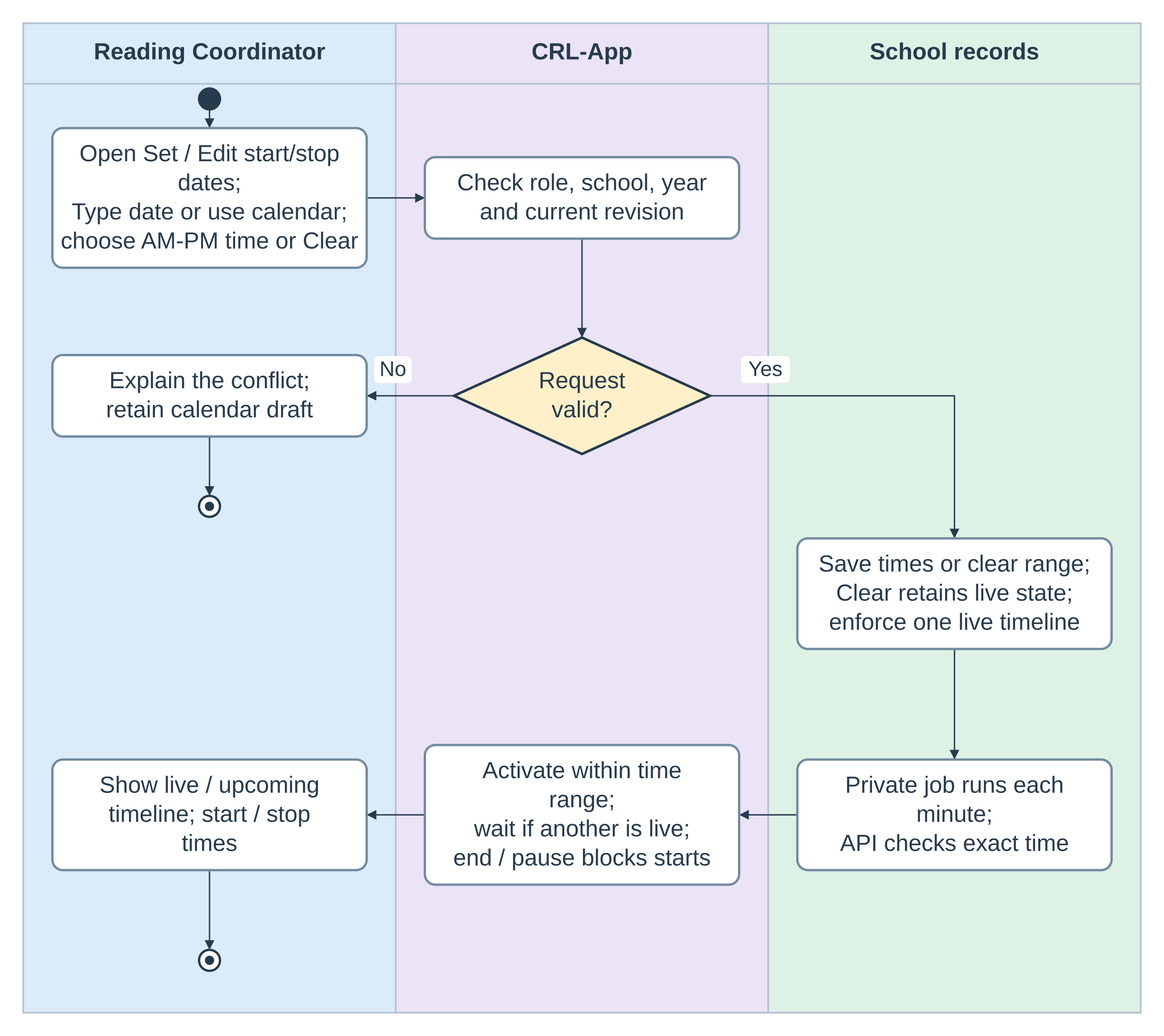
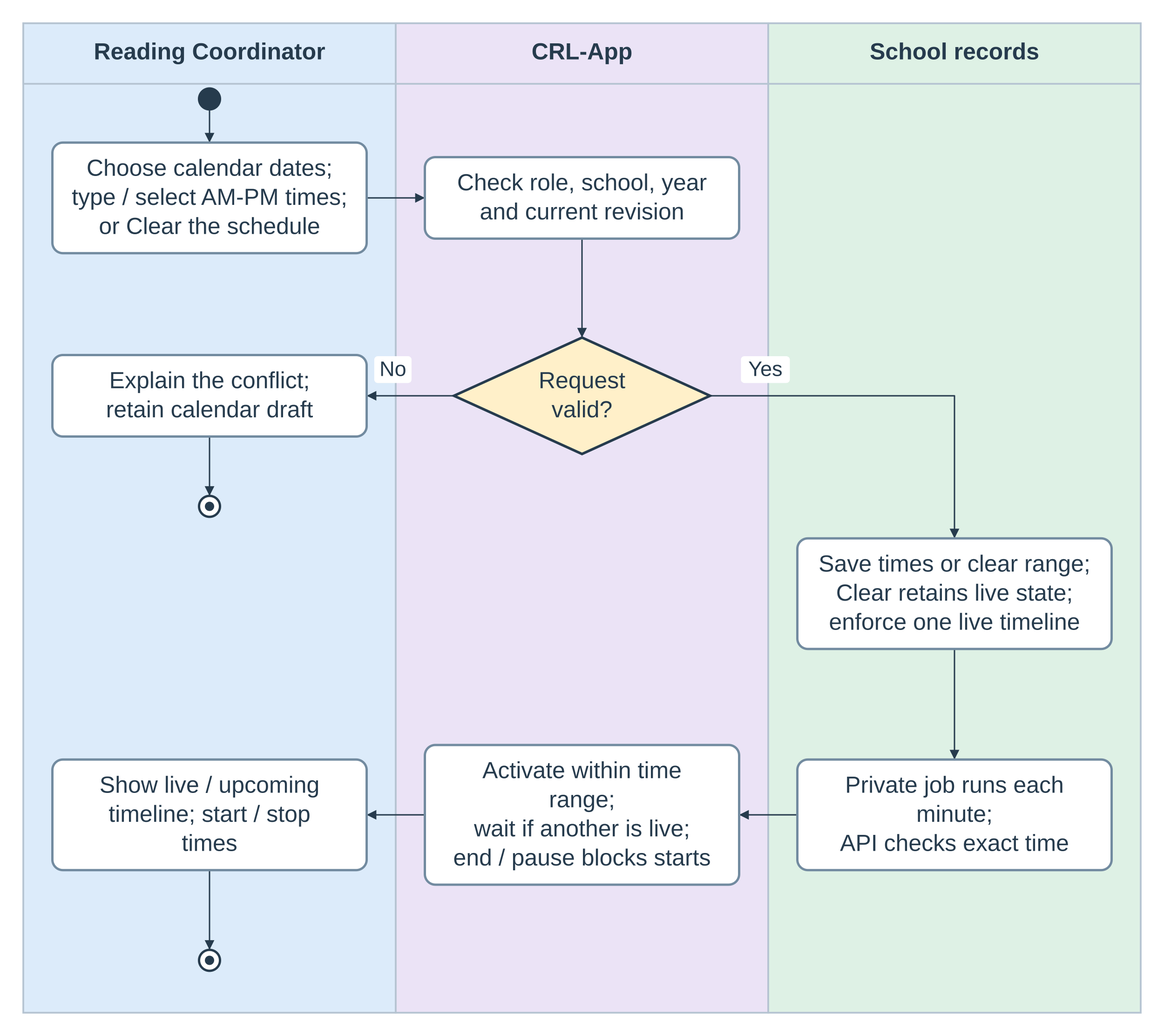
CRL-2026-11-07.5 restore clickable dates and bounded editable time controls

Changed region(s): [[0.0312, 0.124, 0.312, 0.2791]]

diff --git a/components/Select.jsx b/components/Select.jsx
@@ -3,8 +3,8 @@ import {Children,forwardRef,isValidElement,useEffect,useId,useLayoutEffect,useRe
 import {createPortal} from 'react-dom';
 import styles from './Select.module.css';
 function flatten(children,group=''){return Children.toArray(children).flatMap(child=>!isValidElement(child)?[]:child.type==='option'?[{...child.props,value:String(child.props.value??child.props.children),group}]:flatten(child.props.children,child.type==='optgroup'?child.props.label:group));}
-const Select=forwardRef(function Select({children,value,defaultValue='',menuMinWidth=0,onChange,className='',style,id,disabled,required,name,onBlur,onFocus,onKeyDown,...props},forwarded){
- const generated=useId(),key=id||generated,button=useRef(null),native=useRef(null),popup=useRef(null),timer=useRef(null),search=useRef({text:'',at:0});
+const Select=forwardRef(function Select({children,value,defaultValue='',menuMinWidth=0,numericMax,centered=false,onChange,className='',style,id,disabled,required,name,onBlur,onFocus,onKeyDown,...props},forwarded){
+ const generated=useId(),key=id||generated,button=useRef(null),native=useRef(null),popup=useRef(null),timer=useRef(null),search=useRef({text:'',at:0}),control=useRef(null),digits=useRef('');
  const [internal,setInternal]=useState(String(defaultValue)),[open,setOpen]=useState(false),[present,setPresent]=useState(false),[active,setActive]=useState(-1),[position,setPosition]=useState(null),[label,setLabel]=useState('');
  const options=flatten(children),selected=String(value??internal),index=options.findIndex(o=>o.value===selected),current=options[index];
  const close=()=>{setOpen(false);clearTimeout(timer.current);timer.current=setTimeout(()=>setPresent(false),160);};
@@ -12,13 +12,38 @@ const Select=forwardRef(function Select({children,value,defaultValue='',menuMinW
  useEffect(()=>{if(disabled)close();},[disabled]);
  useEffect(()=>{const node=button.current;const parent=node?.closest('label');if(parent){const clone=parent.cloneNode(true);clone.querySelectorAll('select,button,[role=listbox]').forEach(n=>n.remove());setLabel(clone.textContent.trim());}},[]);
  const place=()=>{const r=button.current?.getBoundingClientRect();if(!r)return;const below=innerHeight-r.bottom-12,above=r.top-12,up=below<180&&above>below,height=Math.min(300,Math.max(100,up?above:below)),width=Math.min(Math.max(r.width,menuMinWidth),innerWidth-16);setPosition({left:Math.max(8,Math.min(r.left,innerWidth-width-8)),width,maxHeight:height,...(up?{bottom:innerHeight-r.top+6}:{top:r.bottom+6})});};
- useLayoutEffect(()=>{if(!present)return;place();const outside=e=>{if(!button.current?.contains(e.target)&&!popup.current?.contains(e.target))close();};const moved=e=>{if(!popup.current?.contains(e.target))place();};document.addEventListener('pointerdown',outside,true);window.addEventListener('resize',place);window.addEventListener('scroll',moved,true);return()=>{document.removeEventListener('pointerdown',outside,true);window.removeEventListener('resize',place);window.removeEventListener('scroll',moved,true);};},[present]);
+ useLayoutEffect(()=>{if(!present)return;place();const outside=e=>{if(!control.current?.contains(e.target)&&!popup.current?.contains(e.target))close();};const moved=e=>{if(!popup.current?.contains(e.target))place();};document.addEventListener('pointerdown',outside,true);window.addEventListener('resize',place);window.addEventListener('scroll',moved,true);return()=>{document.removeEventListener('pointerdown',outside,true);window.removeEventListener('resize',place);window.removeEventListener('scroll',moved,true);};},[present]);
  useEffect(()=>{if(open)popup.current?.querySelector(`[data-index="${active}"]`)?.scrollIntoView({block:'nearest'});},[active,open]);
  const show=()=>{if(disabled)return;clearTimeout(timer.current);setActive(index<0?options.findIndex(o=>!o.disabled):index);setPresent(true);setOpen(true);};
- const choose=i=>{const option=options[i];if(!option||option.disabled)return;setInternal(option.value);if(native.current){const set=Object.getOwnPropertyDescriptor(HTMLSelectElement.prototype,'value').set;set.call(native.current,option.value);}onChange?.({target:{value:option.value,name,id},currentTarget:{value:option.value,name,id},type:'change'});close();button.current?.focus();};
+ const choose=i=>{digits.current='';const option=options[i];if(!option||option.disabled)return;setInternal(option.value);if(native.current){const set=Object.getOwnPropertyDescriptor(HTMLSelectElement.prototype,'value').set;set.call(native.current,option.value);}onChange?.({target:{value:option.value,name,id},currentTarget:{value:option.value,name,id},type:'change'});close();button.current?.focus();};
+ // Numeric mode is opt-in for scheduling time controls. Keep normal selects unchanged.
+ const emitNumber=n=>{const i=options.findIndex(o=>Number(o.value)===n);if(i<0)return;setInternal(options[i].value);onChange?.({target:{value:options[i].value,name,id},type:'change'});};
+ const numericKeys=e=>{
+  if(e.ctrlKey||e.metaKey||e.altKey)return;
+  if(/^\d$/.test(e.key)){
+   e.preventDefault();close();
+   const replacing=e.currentTarget.selectionStart!==e.currentTarget.selectionEnd;
+   if(replacing)digits.current='';
+   if(digits.current.length>=2)return;
+   const next=digits.current+e.key,n=Number(next);
+   if(n>numericMax)return;
+   digits.current=next.length===2||n>Math.floor(numericMax/10)?next.padStart(2,'0'):next;
+   e.currentTarget.setSelectionRange(2,2);emitNumber(n);return;
+  }
+  if(e.key==='Backspace'||e.key==='Delete'){e.preventDefault();digits.current='';emitNumber(0);close();return;}
+  if(e.key.length===1&&e.key!==' '){e.preventDefault();return;}
+  keys(e);
+ };
+ const numericChange=e=>{
+  // Covers paste and mobile keyboards that dispatch input without keydown.
+  const raw=e.target.value;if(!/^\d{0,3}$/.test(raw)||raw.length===3&&!raw.startsWith('0'))return;
+  const n=Number(raw);if(n>numericMax)return;
+  digits.current=raw.length>=2||n>Math.floor(numericMax/10)?String(n).padStart(2,'0'):raw;
+  emitNumber(n);
+ };
  const move=delta=>{let next=active;for(let i=0;i<options.length;i++){next=(next+delta+options.length)%options.length;if(!options[next].disabled){setActive(next);break;}}};
  const keys=e=>{onKeyDown?.(e);if(e.defaultPrevented)return;if(['ArrowDown','ArrowUp','Home','End','Enter',' ','Escape'].includes(e.key)){e.preventDefault();if(e.key==='Escape'){e.stopPropagation();close();return;}if(!open){show();return;}if(e.key==='ArrowDown'||e.key==='ArrowUp')move(e.key==='ArrowDown'?1:-1);else if(e.key==='Home')setActive(options.findIndex(o=>!o.disabled));else if(e.key==='End')setActive(options.findLastIndex(o=>!o.disabled));else choose(active);}else if(e.key==='Tab')close();else if(e.key.length===1&&!e.ctrlKey&&!e.metaKey){const now=Date.now();search.current={text:(now-search.current.at<600?search.current.text:'')+e.key.toLowerCase(),at:now};if(!open)show();const found=options.findIndex(o=>!o.disabled&&String(o.children).toLowerCase().startsWith(search.current.text));if(found>=0)setActive(found);}};
  if(props.multiple||props.size>1)return <select {...props} ref={forwarded} className={className} style={style} id={id} name={name} value={value} defaultValue={value===undefined?defaultValue:undefined} disabled={disabled} required={required} onChange={onChange}>{children}</select>;
- return <span data-crl-select="" className={`${styles.root} ${className}`} style={style}><select {...props} id={key+'-native'} ref={node=>{native.current=node;if(typeof forwarded==='function')forwarded(node);else if(forwarded)forwarded.current=node;}} className={styles.native} name={name} value={selected} onChange={e=>{setInternal(e.target.value);onChange?.(e);}} disabled={disabled} required={required} tabIndex={-1} aria-hidden="true" onInvalid={()=>{button.current?.focus();show();}}>{children}</select><button {...Object.fromEntries(Object.entries(props).filter(([k])=>k.startsWith('aria-')||k.startsWith('data-')))} ref={button} id={key} type="button" role="combobox" aria-label={props['aria-label']||label||undefined} aria-expanded={open} aria-haspopup="listbox" aria-controls={present?key+'-options':undefined} aria-activedescendant={open&&active>=0?key+'-option-'+active:undefined} aria-required={required||undefined} disabled={disabled} className={styles.trigger} onClick={()=>open?close():show()} onKeyDown={keys} onFocus={onFocus} onBlur={e=>{if(!popup.current?.contains(e.relatedTarget))close();onBlur?.(e);}}><span>{current?.children||'Choose an option'}</span><svg viewBox="0 0 20 20" width="18" height="18" aria-hidden="true"><path d="m5 7.5 5 5 5-5"/></svg></button>{present&&position&&createPortal(<div ref={popup} id={key+'-options'} role="listbox" aria-label={props['aria-label']||label||'Options'} className={styles.options} data-open={open} style={position} onMouseDown={e=>e.preventDefault()}>{options.map((option,i)=><div key={i} role="option" id={key+'-option-'+i} aria-selected={selected===option.value} aria-disabled={Boolean(option.disabled)} data-index={i} data-active={active===i} className={styles.option} onPointerMove={()=>!option.disabled&&setActive(i)} onClick={()=>choose(i)}><span>{option.children}</span>{selected===option.value&&<span aria-hidden="true">✓</span>}</div>)}</div>,document.body)}</span>;
+ return <span ref={control} data-crl-select="" data-centered={centered||undefined} className={`${styles.root} ${className}`} style={style}><select {...props} id={key+'-native'} ref={node=>{native.current=node;if(typeof forwarded==='function')forwarded(node);else if(forwarded)forwarded.current=node;}} className={styles.native} name={name} value={selected} onChange={e=>{setInternal(e.target.value);onChange?.(e);}} disabled={disabled} required={required} tabIndex={-1} aria-hidden="true" onInvalid={()=>{button.current?.focus();show();}}>{children}</select>{numericMax!==undefined?<><input {...Object.fromEntries(Object.entries(props).filter(([k])=>k.startsWith('aria-')||k.startsWith('data-')))} ref={button} id={key} type="text" inputMode="numeric" autoComplete="off" role="combobox" aria-label={props['aria-label']||label||undefined} aria-expanded={open} aria-haspopup="listbox" aria-autocomplete="none" aria-controls={present?key+'-options':undefined} aria-activedescendant={open&&active>=0?key+'-option-'+active:undefined} disabled={disabled} className={styles.trigger} value={String(selected).padStart(2,'0')} onChange={numericChange} onClick={e=>{digits.current='';e.currentTarget.select();show();}} onKeyDown={numericKeys} onFocus={e=>{digits.current='';e.currentTarget.select();onFocus?.(e);}} onBlur={e=>{close();onBlur?.(e);}}/><button className={styles.numericArrow} type="button" disabled={disabled} tabIndex={-1} aria-label={'Show '+(props['aria-label']||label||'number')+' options'} onMouseDown={e=>e.preventDefault()} onClick={()=>{button.current?.focus();open?close():show();}}><svg viewBox="0 0 20 20" width="18" height="18" aria-hidden="true"><path d="m5 7.5 5 5 5-5"/></svg></button></>:<button {...Object.fromEntries(Object.entries(props).filter(([k])=>k.startsWith('aria-')||k.startsWith('data-')))} ref={button} id={key} type="button" role="combobox" aria-label={props['aria-label']||label||undefined} aria-expanded={open} aria-haspopup="listbox" aria-controls={present?key+'-options':undefined} aria-activedescendant={open&&active>=0?key+'-option-'+active:undefined} aria-required={required||undefined} disabled={disabled} className={styles.trigger} onClick={()=>open?close():show()} onKeyDown={keys} onFocus={onFocus} onBlur={e=>{if(!popup.current?.contains(e.relatedTarget))close();onBlur?.(e);}}><span>{current?.children||'Choose an option'}</span><svg viewBox="0 0 20 20" width="18" height="18" aria-hidden="true"><path d="m5 7.5 5 5 5-5"/></svg></button>}{present&&position&&createPortal(<div ref={popup} id={key+'-options'} role="listbox" aria-label={props['aria-label']||label||'Options'} className={styles.options} data-centered={centered||undefined} data-open={open} style={position} onMouseDown={e=>e.preventDefault()}>{options.map((option,i)=><div key={i} role="option" id={key+'-option-'+i} aria-selected={selected===option.value} aria-disabled={Boolean(option.disabled)} data-index={i} data-active={active===i} className={styles.option} onPointerMove={()=>!option.disabled&&setActive(i)} onClick={()=>choose(i)}><span>{option.children}</span>{selected===option.value&&<span aria-hidden="true">✓</span>}</div>)}</div>,document.body)}</span>;
 });
 export default Select;

diff --git a/components/TimelineCalendar.jsx b/components/TimelineCalendar.jsx
@@ -4,31 +4,15 @@ import Select from './Select';
 import {dateOnly,formatScheduleDate,manilaDay,rangesOverlap} from '../lib/assessmentSchedule.mjs';
 import styles from './Coordinator.module.css';
 const MONTHS=Array.from({length:12},(_,m)=>new Intl.DateTimeFormat('en',{month:'long',timeZone:'UTC'}).format(new Date(Date.UTC(2027,m,1))));
-const partsFor=(value,year)=>{const [y,m,d]=(dateOnly(value)||'').split('-');return {year:y||String(year),month:m?String(Number(m)):'',day:d?String(Number(d)):''};};
-function DateEntry({label,value,minYear,maxYear,active,disabled,onSelect,onChange,onValidityChange}){
- const [parts,setParts]=useState(()=>partsFor(value,minYear)),emitted=useRef(value);
- useEffect(()=>{if(value!==emitted.current)setParts(partsFor(value,minYear));emitted.current=value;},[value,minYear]);
- const maxDay=parts.month?new Date(Date.UTC(Number(parts.year),Number(parts.month),0)).getUTCDate():31;
- const complete=Boolean(parts.month&&parts.day),empty=!parts.month&&!parts.day,valid=empty||(complete&&/^\d{1,2}$/.test(parts.day)&&Number.isInteger(Number(parts.day))&&Number(parts.day)>=1&&Number(parts.day)<=maxDay);
- useEffect(()=>onValidityChange(valid),[valid,onValidityChange]);
- const change=(key,value)=>{const next={...parts,[key]:value};if(Number(next.year)<minYear||Number(next.year)>maxYear)next.year=String(minYear);
-  if(key!=='day'&&next.month&&next.day){const days=new Date(Date.UTC(Number(next.year),Number(next.month),0)).getUTCDate();next.day=String(Math.min(Number(next.day),days));}
-  setParts(next);const candidate=next.month&&next.day?`${next.year}-${next.month.padStart(2,'0')}-${next.day.padStart(2,'0')}`:'';const result=dateOnly(candidate)===candidate?candidate:'';emitted.current=result;onChange(result);
- };
- const legacy=Number(parts.year)<minYear||Number(parts.year)>maxYear;
- return <div className={styles.dateEntry} data-active={active} onFocusCapture={onSelect}><button className={styles.dateEntryLabel} type="button" aria-pressed={active} disabled={disabled} onClick={onSelect}>{label}</button><div className={styles.dateParts}><Select menuMinWidth={145} aria-label={`${label} month`} disabled={disabled} value={parts.month} onChange={e=>change('month',e.target.value)}><option value="">Month</option>{MONTHS.map((m,i)=><option key={m} value={i+1}>{m.slice(0,3)}</option>)}</Select><input type="number" inputMode="numeric" aria-label={`${label} day`} placeholder="Day" min={1} max={maxDay} disabled={disabled} value={parts.day} onChange={e=>change('day',e.target.value)} aria-invalid={!valid&&Boolean(parts.day)}/><Select aria-label={`${label} year`} disabled={disabled} value={parts.year} onChange={e=>change('year',e.target.value)}>{legacy&&<option disabled value={parts.year}>{parts.year} (saved)</option>}{[minYear,maxYear].map(y=><option key={y} value={y}>{y}</option>)}</Select></div>{!valid&&parts.day&&<small className={styles.dateEntryError}>Enter a valid month and day.</small>}</div>;
-}
-export default function TimelineCalendar({period,startYear,start,end,onChange,onValidityChange,reserved=[],disabled=false,now=Date.now()}){
+export default function TimelineCalendar({period,startYear,start,end,onChange,reserved=[],disabled=false,now=Date.now()}){
  const today=manilaDay(now),minYear=Number(startYear),maxYear=minYear+1,minDay=`${minYear}-01-01`,maxDay=`${maxYear}-12-31`,clamp=day=>day<minDay?minDay:day>maxDay?maxDay:day;
- const [month,setMonth]=useState(()=>clamp(today).slice(0,7)),[field,setField]=useState('start'),grid=useRef(null),validity=useRef({start:true,end:true});
+ const [month,setMonth]=useState(()=>clamp(today).slice(0,7)),[field,setField]=useState('start'),grid=useRef(null);
  useEffect(()=>{setMonth(clamp(today).slice(0,7));},[startYear,today]);
- const report=(key,valid)=>{validity.current[key]=valid;onValidityChange?.(validity.current.start&&validity.current.end);};
- const edit=(key,value)=>{if(key==='start')onChange(value,end);else onChange(start,value);if(value)setMonth(clamp(value).slice(0,7));};
  const select=key=>{setField(key);const day=key==='start'?start:end;if(day)setMonth(clamp(day).slice(0,7));};
  const [y,m]=month.split('-').map(Number),first=new Date(Date.UTC(y,m-1,1)).getUTCDay(),days=new Date(Date.UTC(y,m,0)).getUTCDate();
  const blocked=day=>disabled||day<minDay||day>maxDay||(field==='end'&&start&&day<start);
  const choose=day=>{if(blocked(day))return;if(field==='start'){onChange(day,end&&end>=day?end:'');setField('end');}else onChange(start,day);};
  const shift=delta=>{const next=new Date(Date.UTC(y,m-1+delta,1)),nextYear=next.getUTCFullYear();if(nextYear>=minYear&&nextYear<=maxYear)setMonth(next.toISOString().slice(0,7));};
  const keys=(e,day)=>{const delta={ArrowLeft:-1,ArrowRight:1,ArrowUp:-7,ArrowDown:7}[e.key];if(!delta)return;e.preventDefault();const target=new Date(day+'T00:00:00Z');target.setUTCDate(target.getUTCDate()+delta);const next=target.toISOString().slice(0,10);if(blocked(next))return;setMonth(next.slice(0,7));requestAnimationFrame(()=>grid.current?.querySelector(`[data-day="${next}"]`)?.focus());};
- return <div className={styles.timelineCalendar} data-period={period} aria-label={`${period} schedule calendar`}><div className={styles.dateFields}><DateEntry label="Start date" value={start} minYear={minYear} maxYear={maxYear} active={field==='start'} disabled={disabled} onSelect={()=>select('start')} onChange={value=>edit('start',value)} onValidityChange={valid=>report('start',valid)}/><DateEntry label="Stop date" value={end} minYear={minYear} maxYear={maxYear} active={field==='end'} disabled={disabled} onSelect={()=>select('end')} onChange={value=>edit('end',value)} onValidityChange={valid=>report('end',valid)}/></div><div className={styles.calendarNav}><button type="button" aria-label={`Previous month for ${period}`} disabled={disabled||month===`${minYear}-01`} onClick={()=>shift(-1)}>‹</button><Select aria-label={`${period} calendar month`} disabled={disabled} value={String(m)} onChange={e=>setMonth(`${y}-${e.target.value.padStart(2,'0')}`)}>{MONTHS.map((name,i)=><option value={i+1} key={name}>{name}</option>)}</Select><Select aria-label={`${period} calendar year`} disabled={disabled} value={String(y)} onChange={e=>setMonth(`${e.target.value}-${String(m).padStart(2,'0')}`)}>{[minYear,maxYear].map(n=><option value={n} key={n}>{n}</option>)}</Select><button type="button" aria-label={`Next month for ${period}`} disabled={disabled||month===`${maxYear}-12`} onClick={()=>shift(1)}>›</button></div><div className={styles.calendarGrid} ref={grid} role="group" aria-label={`Choose ${field==='start'?'start':'stop'} date for ${period}`}><div className={styles.calendarWeek} aria-hidden="true">{'SMTWTFS'.split('').map((d,i)=><span key={i}>{d}</span>)}</div><div className={styles.calendarDays}>{Array.from({length:first},(_,i)=><span key={`blank${i}`}/>)}{Array.from({length:days},(_,i)=>{const day=`${month}-${String(i+1).padStart(2,'0')}`,occupied=reserved.find(r=>rangesOverlap(day,day,r.startsOn,r.endsOn));return <button key={day} type="button" data-day={day} data-in-range={Boolean(start&&end&&day>=start&&day<=end)} data-endpoint={day===start||day===end} aria-label={`${formatScheduleDate(day)}${occupied?`, reserved for ${occupied.period}`:''}`} aria-current={day===today?'date':undefined} disabled={blocked(day)} onKeyDown={e=>keys(e,day)} onClick={()=>choose(day)}>{i+1}</button>;})}</div></div></div>;
+ return <div className={styles.timelineCalendar} data-period={period} aria-label={`${period} schedule calendar`}><div className={styles.dateFields}>{['start','end'].map(key=><button key={key} type="button" aria-pressed={field===key} disabled={disabled} onClick={()=>select(key)}><span>{key==='start'?'Start date':'Stop date'}</span><strong>{formatScheduleDate(key==='start'?start:end)||'Choose date'}</strong></button>)}</div><div className={styles.calendarNav}><button type="button" aria-label={`Previous month for ${period}`} disabled={disabled||month===`${minYear}-01`} onClick={()=>shift(-1)}>‹</button><Select aria-label={`${period} calendar month`} disabled={disabled} value={String(m)} onChange={e=>setMonth(`${y}-${e.target.value.padStart(2,'0')}`)}>{MONTHS.map((name,i)=><option value={i+1} key={name}>{name}</option>)}</Select><Select aria-label={`${period} calendar year`} disabled={disabled} value={String(y)} onChange={e=>setMonth(`${e.target.value}-${String(m).padStart(2,'0')}`)}>{[minYear,maxYear].map(n=><option value={n} key={n}>{n}</option>)}</Select><button type="button" aria-label={`Next month for ${period}`} disabled={disabled||month===`${maxYear}-12`} onClick={()=>shift(1)}>›</button></div><div className={styles.calendarGrid} ref={grid} role="group" aria-label={`Choose ${field==='start'?'start':'stop'} date for ${period}`}><div className={styles.calendarWeek} aria-hidden="true">{'SMTWTFS'.split('').map((d,i)=><span key={i}>{d}</span>)}</div><div className={styles.calendarDays}>{Array.from({length:first},(_,i)=><span key={`blank${i}`}/>)}{Array.from({length:days},(_,i)=>{const day=`${month}-${String(i+1).padStart(2,'0')}`,occupied=reserved.find(r=>rangesOverlap(day,day,r.startsOn,r.endsOn));return <button key={day} type="button" data-day={day} data-in-range={Boolean(start&&end&&day>=start&&day<=end)} data-endpoint={day===start||day===end} aria-label={`${formatScheduleDate(day)}${occupied?`, reserved for ${occupied.period}`:''}`} aria-current={day===today?'date':undefined} disabled={blocked(day)} onKeyDown={e=>keys(e,day)} onClick={()=>choose(day)}>{i+1}</button>;})}</div></div></div>;
 }

diff --git a/components/SchoolAssessmentActivation.jsx b/components/SchoolAssessmentActivation.jsx
@@ -5,13 +5,13 @@ import {scheduleIsLive,scheduleStatus,scheduledWindowOpen,SINGLE_LIVE_NOTICE,sch
 import styles from './Coordinator.module.css';
 const PERIODS=['BoSY','MoSY','EoSY'];
 const MEANINGS={BoSY:'Beginning of School Year',MoSY:'Middle of School Year',EoSY:'End of School Year'};
-function TimeChoice({label,value,onChange,disabled}){const [h,m]=value.split(':').map(Number),ampm=h>=12?'PM':'AM';const update=(hour,minute,half)=>onChange(String((Number(hour)%12)+(half==='PM'?12:0)).padStart(2,'0')+':'+String(minute).padStart(2,'0'));return <div className={styles.timeChoice}><span>{label}</span><div><Select menuMinWidth={112} aria-label={label+' hour'} value={String(h%12||12)} disabled={disabled} onChange={e=>update(e.target.value,m,ampm)}>{Array.from({length:12},(_,i)=><option key={i} value={i+1}>{i+1}</option>)}</Select><Select menuMinWidth={112} aria-label={label+' minute'} value={String(m)} disabled={disabled} onChange={e=>update(h,e.target.value,ampm)}>{Array.from({length:60},(_,i)=><option key={i} value={i}>{String(i).padStart(2,'0')}</option>)}</Select><Select menuMinWidth={112} aria-label={label+' AM or PM'} value={ampm} disabled={disabled} onChange={e=>update(h,m,e.target.value)}><option>AM</option><option>PM</option></Select></div></div>;}
+function TimeChoice({label,value,onChange,disabled}){const [h,m]=value.split(':').map(Number),ampm=h>=12?'PM':'AM';const update=(hour,minute,half)=>onChange(String((Number(hour)%12)+(half==='PM'?12:0)).padStart(2,'0')+':'+String(minute).padStart(2,'0'));return <div className={styles.timeChoice}><span>{label}</span><div><Select centered numericMax={11} menuMinWidth={112} aria-label={label+' hour'} value={String(h%12)} disabled={disabled} onChange={e=>update(e.target.value,m,ampm)}>{Array.from({length:12},(_,i)=><option key={i} value={i}>{String(i).padStart(2,'0')}</option>)}</Select><Select centered numericMax={59} menuMinWidth={112} aria-label={label+' minute'} value={String(m)} disabled={disabled} onChange={e=>update(h,e.target.value,ampm)}>{Array.from({length:60},(_,i)=><option key={i} value={i}>{String(i).padStart(2,'0')}</option>)}</Select><Select centered menuMinWidth={112} aria-label={label+' AM or PM'} value={ampm} disabled={disabled} onChange={e=>update(h,m,e.target.value)}><option>AM</option><option>PM</option></Select></div></div>;}
 function TimelineScheduleDialog({period,row,year,rows,now,openedAt=now,busy,mutate,onClose}){
  const initialStart=localDateTime(row?.startsAt),initialEnd=localDateTime(row?.endsAt);
- const [start,setStart]=useState(initialStart.day||row?.startsOn||''),[end,setEnd]=useState(initialEnd.day||row?.endsOn||''),[startTime,setStartTime]=useState(initialStart.time||localDateTime(new Date(openedAt).toISOString()).time),[endTime,setEndTime]=useState(initialEnd.time||'23:59'),[error,setError]=useState(''),[notice,setNotice]=useState('');const submitting=useRef(false);const [datesValid,setDatesValid]=useState(true);
+ const [start,setStart]=useState(initialStart.day||row?.startsOn||''),[end,setEnd]=useState(initialEnd.day||row?.endsOn||''),[startTime,setStartTime]=useState(initialStart.time||localDateTime(new Date(openedAt).toISOString()).time),[endTime,setEndTime]=useState(initialEnd.time||'23:59'),[error,setError]=useState(''),[notice,setNotice]=useState('');const submitting=useRef(false);
  const reserved=rows.filter(r=>r.period!==period&&r.scheduleEnabled);
  const save=async enabled=>{if(submitting.current||busy)return;setError('');const startsAt=start?(start===initialStart.day&&startTime===initialStart.time?new Date(row.startsAt).toISOString():scheduleInstant(start,startTime)):null,endsAt=end?scheduleInstant(end,endTime):null,effectiveStart=startsAt||new Date(now).toISOString();if(enabled){const issue=instantIssue(effectiveStart,endsAt);if(issue){setError(issue);return;}if(scheduledWindowOpen({startsAt:effectiveStart,endsAt},now)&&rows.some(r=>r.period!==period&&scheduleIsLive(r,now))){setNotice(SINGLE_LIVE_NOTICE);return;}if(reserved.some(r=>windowsOverlap({startsAt:effectiveStart,endsAt},r))){setError('These dates and times overlap another timeline.');return;}}submitting.current=true;try{await mutate(period,row,{assessment_action:'schedule',schedule_enabled:enabled,starts_at:startsAt,ends_at:endsAt});onClose();}catch(e){if(e.message.includes('Only one timeline'))setNotice(SINGLE_LIVE_NOTICE);else setError(e.message);}finally{submitting.current=false;}};
- return <ClassDialog title={row?.scheduleEnabled?'Edit start/stop dates':'Set start/stop dates'} showClose busy={busy} onClose={onClose}><div className={`${styles.panel} ${styles.scheduleDialog}`}><p className={styles.scheduleContext}>{period} · {year}–{Number(year)+1}</p><TimelineCalendar period={period} startYear={Number(year)} start={start} end={end} onChange={(a,b)=>{setStart(a);setEnd(b);setError('');}} onValidityChange={setDatesValid} reserved={reserved} disabled={busy} now={now}/><div className={styles.scheduleTimes}><TimeChoice label="Start time" value={startTime} onChange={setStartTime} disabled={busy}/><TimeChoice label="Stop time" value={endTime} onChange={setEndTime} disabled={busy}/></div>{error&&<p role="alert" className={styles.error}>{error}</p>}{row?.scheduleEnabled&&<button type="button" className={styles.removeSchedule} disabled={busy} onClick={()=>void save(false)}>Clear</button>}<div className={styles.scheduleActions}><button type="button" className={styles.secondary} disabled={busy} onClick={onClose}>Cancel</button><button type="button" className={styles.scheduleSave} disabled={busy||!datesValid||(!start&&!end)} onClick={()=>void save(true)}>{busy?'Saving…':'Save dates'}</button></div></div>{notice&&<NoticeDialog message={notice} onClose={()=>setNotice('')}/>}</ClassDialog>;
+ return <ClassDialog title={row?.scheduleEnabled?'Edit start/stop dates':'Set start/stop dates'} showClose busy={busy} onClose={onClose}><div className={`${styles.panel} ${styles.scheduleDialog}`}><p className={styles.scheduleContext}>{period} · {year}–{Number(year)+1}</p><TimelineCalendar period={period} startYear={Number(year)} start={start} end={end} onChange={(a,b)=>{setStart(a);setEnd(b);setError('');}} reserved={reserved} disabled={busy} now={now}/><div className={styles.scheduleTimes}><TimeChoice label="Start time" value={startTime} onChange={setStartTime} disabled={busy}/><TimeChoice label="Stop time" value={endTime} onChange={setEndTime} disabled={busy}/></div>{error&&<p role="alert" className={styles.error}>{error}</p>}{row?.scheduleEnabled&&<button type="button" className={styles.removeSchedule} disabled={busy} onClick={()=>void save(false)}>Clear</button>}<div className={styles.scheduleActions}><button type="button" className={styles.secondary} disabled={busy} onClick={onClose}>Cancel</button><button type="button" className={styles.scheduleSave} disabled={busy||(!start&&!end)} onClick={()=>void save(true)}>{busy?'Saving…':'Save dates'}</button></div></div>{notice&&<NoticeDialog message={notice} onClose={()=>setNotice('')}/>}</ClassDialog>;
 }
 function TimelineCard({period,row,year,rows,now,clockOffset=0,busy,mutate}){
  const [editor,setEditor]=useState(null),[error,setError]=useState(''),[notice,setNotice]=useState('');

diff --git a/components/Select.module.css b/components/Select.module.css
@@ -1,1 +1,4 @@
 .root{display:inline-block;position:relative;min-width:0;width:100%;vertical-align:middle;font:inherit;border:0!important;padding:0!important;background:transparent!important}.native{position:absolute!important;width:1px!important;height:1px!important;min-height:0!important;clip-path:inset(50%)!important;opacity:0!important;pointer-events:none!important;padding:0!important;overflow:hidden!important}.trigger{width:100%;min-width:0;min-height:46px;display:flex!important;align-items:center!important;justify-content:space-between!important;gap:14px;padding:11px 14px!important;background:var(--select-bg,#fff)!important;color:var(--select-ink,#243d5e)!important;border:1px solid var(--select-border,#ccd8e8)!important;border-radius:11px!important;font:inherit!important;text-align:left!important;font-weight:400!important;cursor:pointer;box-shadow:0 1px 2px #19345103;transition:border-color .16s,box-shadow .16s!important}.trigger>span{min-width:0;overflow:hidden;text-overflow:ellipsis;white-space:nowrap}.trigger svg{flex:0 0 18px;fill:none;stroke:currentColor;stroke-width:1.7;transition:transform .18s}.trigger[aria-expanded=true]{border-color:#5983ba!important;box-shadow:0 0 0 3px #5887bc16}.trigger[aria-expanded=true] svg{transform:rotate(180deg)}.trigger:focus-visible{outline:3px solid #5087bb66;outline-offset:2px}.trigger:disabled{opacity:.55;cursor:not-allowed}.options{position:fixed;z-index:2147483000;overflow:auto;overscroll-behavior:contain;box-sizing:border-box;padding:6px;background:#fff;color:#243d5e;border:1px solid #d7e2ef;border-radius:13px;box-shadow:0 14px 38px #182c4f24;font:400 15px/1.4 var(--font-outfit),system-ui,sans-serif;opacity:0;transform:translateY(-5px) scale(.985);transform-origin:center top;transition:opacity .15s ease,transform .15s ease;pointer-events:none}.options[data-open=true]{opacity:1;transform:translateY(0) scale(1);pointer-events:auto;animation:appear .16s ease}.option{display:flex;justify-content:space-between;gap:12px;padding:11px 12px;border-radius:8px;cursor:pointer;overflow-wrap:anywhere}.option[data-active=true]:not([aria-selected=true]){background:#f0f5fb}.option[aria-selected=true]{background:#e5edf8;color:#255588;font-weight:600}.option[aria-disabled=true]{opacity:.45;cursor:not-allowed}@keyframes appear{from{opacity:0;transform:translateY(-5px) scale(.985)}to{opacity:1;transform:none}}:global(html[data-crl-theme=dark]) .root{--select-bg:#192a43;--select-ink:#e3ecf8;--select-border:#40526d}:global(html[data-crl-theme=dark]) .options{background:#192a43;color:#e3ecf8;border-color:#40526d}:global(html[data-crl-theme=dark]) .option[data-active=true]{background:#263c5a}:global(html[data-crl-theme=dark]) .option[aria-selected=true]{background:#345174;color:white}@media(prefers-reduced-motion:reduce){.trigger,.trigger svg,.options{transition:none!important;animation:none!important}}
+
+/* Center scheduling values without changing ordinary selects or popup alignment. */
+.root[data-centered] .trigger{position:relative;text-align:center!important;justify-content:center!important;padding-left:20px!important;padding-right:20px!important;font-variant-numeric:tabular-nums}.root[data-centered] .trigger>span{width:100%}.root[data-centered] .trigger>svg{position:absolute;right:8px}.options[data-centered] .option{position:relative;justify-content:center;padding-left:28px;padding-right:28px;text-align:center;font-variant-numeric:tabular-nums}.options[data-centered] .option>span[aria-hidden]{position:absolute;right:10px}.root .numericArrow{position:absolute!important;right:2px;top:2px;bottom:2px;width:26px!important;min-width:0!important;min-height:0!important;margin:0!important;padding:0!important;border:0!important;background:transparent!important;color:var(--select-ink,#243d5e)!important;display:grid!important;place-items:center;box-shadow:none!important}.numericArrow svg{fill:none;stroke:currentColor;stroke-width:1.7}.numericArrow:disabled{opacity:.55;cursor:not-allowed}

diff --git a/components/Coordinator.module.css b/components/Coordinator.module.css
@@ -151,5 +151,5 @@
 
 @media(max-width:380px){.scheduleDialog .calendarNav{grid-template-columns:20px minmax(0,1fr) 20px;gap:6px}.scheduleDialog .calendarNav>[data-crl-select]:nth-child(2){grid-column:2;grid-row:1}.scheduleDialog .calendarNav>[data-crl-select]:nth-child(3){grid-column:2;grid-row:2}.scheduleDialog .calendarNav>button:first-child{grid-column:1;grid-row:1 / 3}.scheduleDialog .calendarNav>button:last-child{grid-column:3;grid-row:1 / 3}.scheduleDialog .calendarNav [role=combobox]{gap:6px;font-size:12px!important}}
 
-/* CRL-2026-11-07.4: direct date fields and vertical clock controls. */
-.scheduleTimes{grid-template-columns:1fr;gap:18px}.scheduleDialog .scheduleContext{font-size:17px;font-weight:600;color:var(--crl-text,#2d4f76);line-height:1.5}.timelineCalendar .dateEntry{border:1px solid var(--crl-line,#d4e1f0);border-radius:11px;padding:12px;min-width:0;background:var(--crl-surface,#fff)}.timelineCalendar .dateEntry[data-active=true]{border-color:var(--range-edge);box-shadow:0 0 0 1px var(--range-edge)}.timelineCalendar .dateEntry .dateEntryLabel{min-height:30px!important;padding:0 0 8px!important;margin:0;border:0!important;box-shadow:none!important;border-radius:0;background:transparent!important;font-size:12px;font-weight:600;color:var(--crl-text,#375576)!important;display:block;text-align:left;line-height:1.5}.dateParts{display:grid;grid-template-columns:minmax(0,1fr) 48px;gap:8px;min-width:0}.dateParts>[data-crl-select]:last-child{grid-column:1 / -1}.dateParts [role=combobox]{min-height:42px!important;padding:8px!important;gap:5px!important;font-size:13px!important}.dateParts [role=combobox] svg{width:12px;flex-basis:12px}.dateParts input{height:42px!important;min-height:42px!important;padding:6px!important;border-radius:9px!important;text-align:center;font:13px Arial!important;appearance:textfield}.dateParts input::-webkit-inner-spin-button,.dateParts input::-webkit-outer-spin-button{-webkit-appearance:none;margin:0}.dateEntryError{display:block;font-size:11px;line-height:1.5;margin-top:7px;color:#ad3443}@media(max-width:520px){.scheduleDialog .dateFields{grid-template-columns:1fr;gap:12px}.timelineCalendar .dateEntry{padding:12px}.dateParts{grid-template-columns:minmax(0,1fr) 64px}.scheduleDialog .scheduleContext{font-size:16px}}
+/* CRL-2026-11-07.5: clickable dates, vertical time controls and larger context. */
+.scheduleTimes{grid-template-columns:1fr;gap:18px}.scheduleDialog .scheduleContext{font-size:17px;font-weight:600;color:var(--crl-text,#2d4f76);line-height:1.5}@media(max-width:520px){.scheduleDialog .scheduleContext{font-size:16px}}

diff --git a/scripts/verify-assessment-build.js b/scripts/verify-assessment-build.js
@@ -926,7 +926,7 @@ if (!/if \(existingSession\?\.signedOut\) return;/.test(teacherPreloadSource)) {
   );
 }
 if (
-  !/crla-pwa-v86/.test(serviceWorkerSource) ||
+  !/crla-pwa-v87/.test(serviceWorkerSource) ||
   !/event\.waitUntil\(warmAppShell\(\)\)/.test(serviceWorkerSource) ||
   !/await cacheDocumentDependencies\(response\)/.test(serviceWorkerSource) ||
   !/url\.pathname\.startsWith\("\/_next\/static\/"\)/.test(serviceWorkerSource)

diff --git a/public/sw.js b/public/sw.js
@@ -1,4 +1,4 @@
-const CACHE_NAME = "crla-pwa-v86";
+const CACHE_NAME = "crla-pwa-v87";
 
 const APP_SHELL = [
   "/",

diff --git a/docs/diagrams/class-workspaces/build_school_flow.py b/docs/diagrams/class-workspaces/build_school_flow.py
@@ -27,5 +27,5 @@ make('figure-15d-section-recycle',['School administrator','CRL-App','School reco
 ],[('s','delete'),('delete','archive','right','left'),('archive','retain','right','left'),('retain','open','bottom','top',[(670,260),(150,260)]),('open','valid','bottom','left',[(150,550)]),('valid','deny','bottom','top',[(410,650),(150,650)],'No',(440,630)),('deny','df'),('valid','restore','right','top',[(670,550)],'Yes',(538,533)),('restore','rf'),('timer','due'),('due','expire','right','left'),('expire','ef')],h=1160)
 
 make('figure-15e-timeline-scheduling',['Reading Coordinator','CRL-App','School records'],[
- ('s',0,85,'',S),('edit',0,170,'Open Set / Edit start/stop dates;\nType date or use calendar;\nchoose AM-PM time or Clear',P),('validate',1,170,'Check role, school, year\nand current revision',P),('valid',1,340,'Request\nvalid?',D),('reject',0,340,'Explain the conflict;\nretain calendar draft',P),('rf',0,435,'',F),('save',2,510,'Save times or clear range;\nClear retains live state;\nenforce one live timeline',P),('clock',2,700,'Private job runs each minute;\nAPI checks exact time',P),('effective',1,700,'Activate within time range;\nwait if another is live;\nend / pause blocks starts',P),('overview',0,700,'Show live / upcoming\ntimeline; start / stop times',P),('ef',0,825,'',F)
+ ('s',0,85,'',S),('edit',0,170,'Choose calendar dates;\ntype / select AM-PM times;\nor Clear the schedule',P),('validate',1,170,'Check role, school, year\nand current revision',P),('valid',1,340,'Request\nvalid?',D),('reject',0,340,'Explain the conflict;\nretain calendar draft',P),('rf',0,435,'',F),('save',2,510,'Save times or clear range;\nClear retains live state;\nenforce one live timeline',P),('clock',2,700,'Private job runs each minute;\nAPI checks exact time',P),('effective',1,700,'Activate within time range;\nwait if another is live;\nend / pause blocks starts',P),('overview',0,700,'Show live / upcoming\ntimeline; start / stop times',P),('ef',0,825,'',F)
 ],[('s','edit'),('edit','validate','right','left'),('validate','valid'),('valid','reject','left','right',None,'No',(278,323)),('reject','rf'),('valid','save','right','top',[(670,340)],'Yes',(538,323)),('save','clock'),('clock','effective','left','right'),('effective','overview','left','right'),('overview','ef')],h=890)

diff --git a/docs/CHANGELOG.md b/docs/CHANGELOG.md
@@ -1,5 +1,46 @@
 # CRL-App version and change notes
 
+## CRL-2026-11-07.5 — Clickable calendar dates and editable numeric time
+
+Date: 7 November 2026, Asia/Manila. Start and Stop date boxes are buttons again:
+choose a boundary and then its calendar day. Manual month/day/year fields are
+removed, superseding .4's direct date entry. Calendar navigation remains within the
+selected school-year pair, with today's visible month clamped into that range.
+Saved timestamps, current-clock defaults and vertical Start/Stop time rows remain.
+
+Hour and minute dropdowns now also accept numeric typing. Hours are 00–11 with a
+separate AM/PM choice; 00 represents the twelve o'clock boundary in that half-day.
+Minutes are 00–59. Digits that cannot begin a two-digit value finish immediately:
+6 becomes 06 minutes and another appended digit is ignored. Two-digit entry,
+select-all replacement and dropdown selection remain available. Letters, signs,
+exponents and out-of-range pasted values are rejected. Backspace/Delete resets
+the field to 00. Values and time-menu labels are centered, with enough phone width
+for full AM/PM text. Numeric mode and centered alignment are opt-in Select props;
+normal year, section and other dropdowns retain their behavior and keyboard menus.
+
+Affected: TimelineCalendar, SchoolAssessmentActivation, Select and scoped CSS,
+worker87/build guard, responsive browser coverage and maintenance notes. The native
+capstone text, scheduling activity continuation and editable drawio/SVG/PNG sources
+now describe calendar selection and bounded typed times. White actions, yellow
+decisions, swimlane colors and figure formatting retain the established design.
+Existing ERD/use-case entities, relationships and permissions remain accurate.
+
+Database readback confirms timestamp columns, valid ranges, one-live enforcement
+and an active minute scheduler with a successful recent run. This interface-only
+release requires no schema migration or operational-data rewrite. Scheduling,
+authorization, scoring, attempts and local journals remain unchanged.
+
+Validation: clean npm ci; full npm run build, including all 60 regression scripts,
+optimized compilation and all-dependency audit with zero reported vulnerabilities.
+Actual-component browser checks passed at 320/768/1440 in both themes, including
+numeric limits, repeated digits, invalid paste, centered non-clipped AM/PM values,
+clickable calendar boundaries, exact saved payloads, Clear retaining live state,
+keyboard dismissal and existing teacher/admin/year layouts. The updated native
+115-page document was exported and its scheduling page visually checked, with the
+justified note on the same page. These checks do not establish physical-device
+results. Rollback changes presentation only; retain timestamps, constraints,
+scheduler and records. Do not clear device storage.
+
 ## CRL-2026-11-07.4 — Direct calendar date fields and vertical time controls
 
 Date: 7 November 2026, Asia/Manila. The scheduling overlay removes the bottom

diff --git a/docs/PROJECT_HANDOFF.md b/docs/PROJECT_HANDOFF.md
@@ -5,7 +5,26 @@ release history and `../AGENTS.md` for the required maintenance workflow.
 Verify the current source before changing behavior. These notes intentionally
 exclude identifying school context, device inventories and deployment details.
 
-## Current release — CRL-2026-11-07.4
+## Current release — CRL-2026-11-07.5
+
+Start/Stop date boxes select a calendar boundary again; direct date entry from .4
+is superseded. Preserve its selected-year navigation bounds, visible-month clamp,
+current-clock preset, larger context label and vertical time rows. Hours accept
+00–11 and minutes 00–59 through typing or dropdown choices; AM/PM is separate.
+00 maps to midnight/noon in the selected half-day. Leading digits that cannot begin
+a two-digit value finish padded immediately; a subsequent appended digit is ignored.
+Reject invalid characters/paste; Backspace/Delete resets to 00. All time values,
+including menu labels and full AM/PM text on phones, are centered. Select numeric
+and centered props are opt-in; ordinary dropdowns retain established behavior.
+
+Worker87 retains journals. No schema or operational-data change is needed; production
+timestamp columns, valid ranges, one-live state and the minute job were verified.
+The native capstone and editable scheduling activity sources use calendar selection
+and bounded typed times with the existing palette. ERD/use-case relationships remain
+accurate. Clean install, full build/audit and six responsive theme/width combinations
+passed; the native PDF scheduling page was visually checked.
+
+## Previous release — CRL-2026-11-07.4
 
 The date overlay now has direct month/day/year controls plus the calendar. New year
 choices follow the selected school-year pair; clamp the visible month into that
